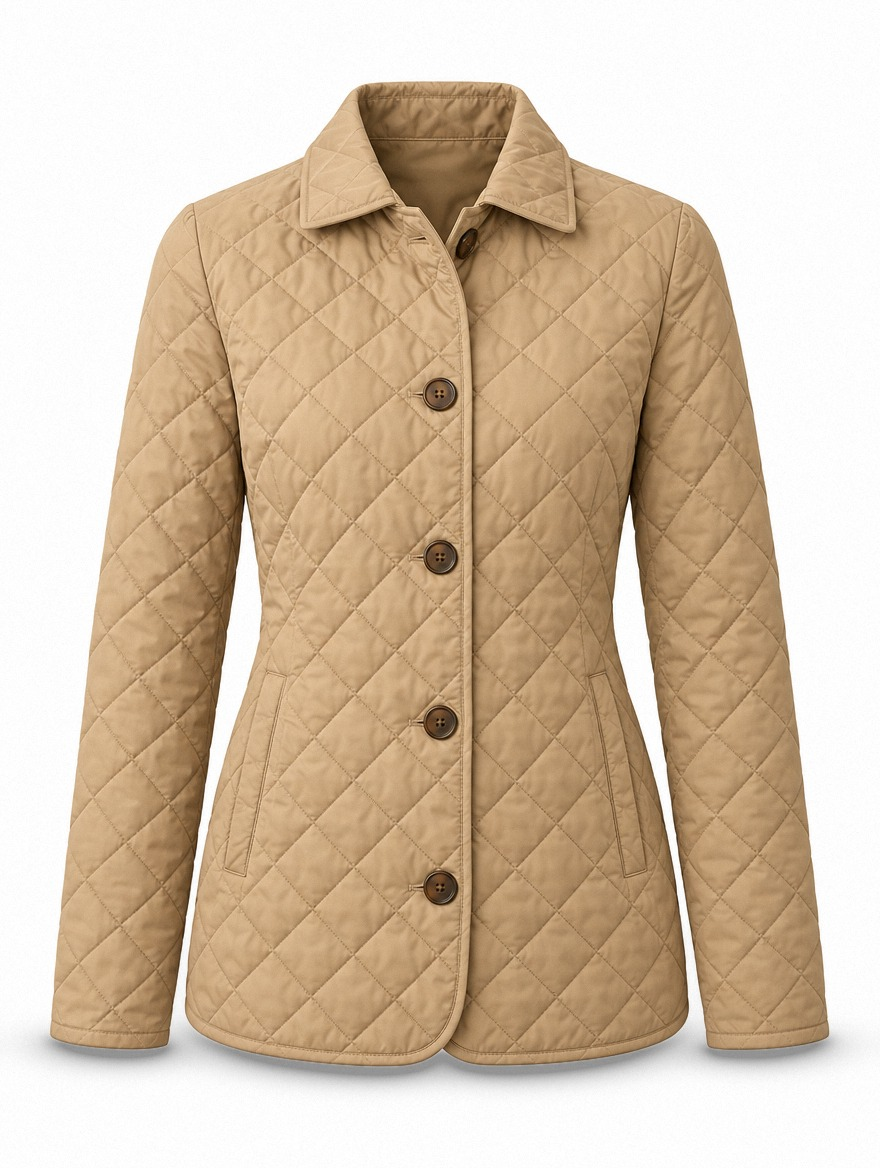
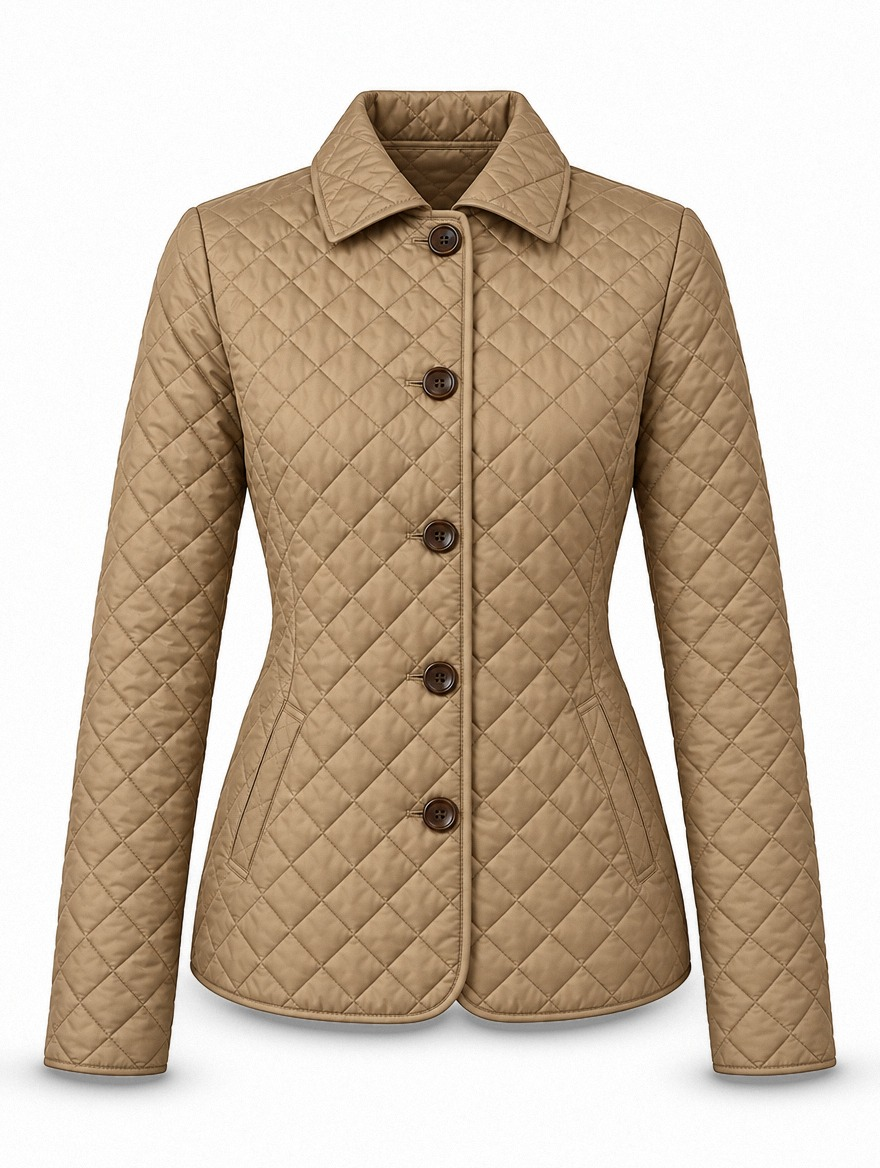
Nerea y Carmen: fotos de producto coherentes y fotos de modelo con IA
Claude-Session: https://claude.ai/code/session_01P13KH2gtcVY7NGB3WrTRXy

diff --git a/docs/productos-nuevos-2026-11-09.md b/docs/productos-nuevos-2026-11-09.md
@@ -43,3 +43,12 @@ Sin precio tachado (no se anuncia como rebaja). CPA máx. sin IVA = PVP × 0,905
 
 La competencia vende los mismos productos a 40–55 €. Con coste ≤ 20 € todos cumplen el CPA máx. ≥ 25 € (salvo Paula, que
 necesita ≤ 19 €). Si el proveedor da un coste mayor, subir el precio antes de lanzar el test (sin ventas todavía).
+
+## Fotos con IA (09/11/2026, petición de la dueña)
+- **Chaqueta Nerea:** las fotos de fondo blanco de caqui, crudo y negro se rehicieron a partir de la azul marino (antes unas tenían
+  4 botones y otras 5, y la crudo salía más corta y con un defecto en el bajo). Sustituidas con `fileUpdate` (mismo MediaImage, cada
+  color sigue enlazado a su foto). Añadidas 3 fotos de modelo con IA: azul marino (calle), crudo (paseo marítimo), negro (terraza).
+- **Blazer Carmen:** las 4 fotos de modelo del origen son casi iguales (misma pose, sin cara). Añadidas 2 con IA, en 2.º y 3.er
+  lugar: look de calle de cuerpo entero y look de noche con jersey negro. (Un primer plano del ante lo bloqueó el filtro de la IA.)
+- Archivos en `docs/creativos/fondo-blanco/nuevos-2026-11-09/`; galerías: `galerias-nerea-carmen.jpg`.
+- Las personas están generadas con IA: no presentarlas como clientas. Al recibir la muestra, comprobar que la prenda coincide.
